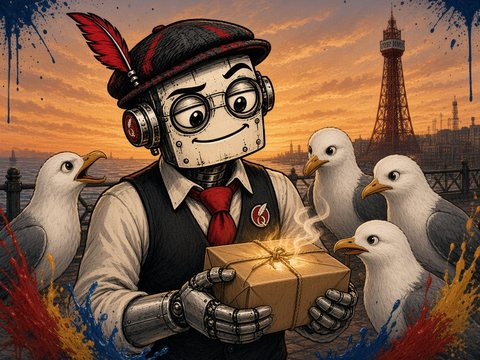
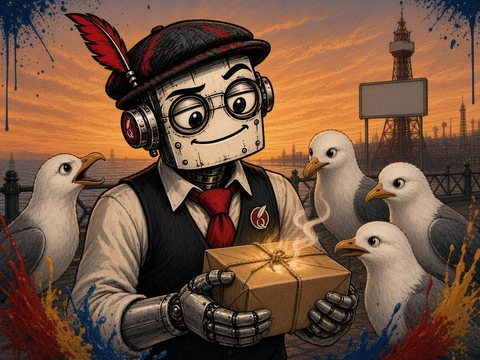
M3: paint the last base uncommons and two rares; redo Mysterious Parcel
My Old Son, Wounded Dignity (Reggie); Steady Hand, Masterpiece (Terry, rare);
Left Without Saying Goodbye, Air of Mystery (Kenneth, rare). Mysterious Parcel
regenerated without lettering (tower sign retouched blank). AI-generated from the
heroes' portraits with existing cards as the style reference; logged in README and
THIRD_PARTY_NOTICES. Verify test added; all verify checks pass (207/207 this run,
the random first fight was lost so the two Esc-menu checks were skipped).

diff --git a/desktop/seen-off/tests/verify.js b/desktop/seen-off/tests/verify.js
@@ -471,6 +471,7 @@ async function m2d(browser, port) {
   ok(`${tag} the last ten base commons show their painted art`, await ev(async () => { const B = __SO.B(); B.hand = ['tenner', 'braveface', 'proofread', 'wraparound', 'inkwash', 'quick', 'refphoto', 'friendreg', 'cousin', 'uninvited'].map(id => ({ id, u: 0 })); __SO.render(); await new Promise(r => setTimeout(r, 900)); return ['tenner', 'braveface', 'proofread', 'wraparound', 'inkwash', 'quick', 'refphoto', 'friendreg', 'cousin', 'uninvited'].every(id => new RegExp('cards/' + id + '\\.jpg').test(getComputedStyle(document.querySelector('.c-' + id + ' .art')).backgroundImage)); }));
   ok(`${tag} the first six uncommons show their painted art`, await ev(async () => { const B = __SO.B(); B.hand = ['finaldemand', 'itemised', 'storm', 'layout', 'wronghouse', 'cointoss'].map(id => ({ id, u: 0 })); __SO.render(); await new Promise(r => setTimeout(r, 900)); return ['finaldemand', 'itemised', 'storm', 'layout', 'wronghouse', 'cointoss'].every(id => new RegExp('cards/' + id + '\\.jpg').test(getComputedStyle(document.querySelector('.c-' + id + ' .art')).backgroundImage)); }));
   ok(`${tag} the second six uncommons show their painted art`, await ev(async () => { const B = __SO.B(); B.hand = ['earner', 'rounding', 'dayone', 'outrage', 'longstory', 'parcel'].map(id => ({ id, u: 0 })); __SO.render(); await new Promise(r => setTimeout(r, 900)); return ['earner', 'rounding', 'dayone', 'outrage', 'longstory', 'parcel'].every(id => new RegExp('cards/' + id + '\\.jpg').test(getComputedStyle(document.querySelector('.c-' + id + ' .art')).backgroundImage)); }));
+  ok(`${tag} the last uncommons and two rares show their painted art`, await ev(async () => { const B = __SO.B(); B.hand = ['myoldson', 'dignity', 'steady', 'goodbye', 'masterpiece', 'mystery'].map(id => ({ id, u: 0 })); __SO.render(); await new Promise(r => setTimeout(r, 900)); return ['myoldson', 'dignity', 'steady', 'goodbye', 'masterpiece', 'mystery'].every(id => new RegExp('cards/' + id + '\\.jpg').test(getComputedStyle(document.querySelector('.c-' + id + ' .art')).backgroundImage)); }));
   ok(`${tag} Kenneth's cards are framed in black`, await ev(async () => { const B = __SO.B(); B.hand = [{ id: 'handshake', u: 0 }]; __SO.render(); await new Promise(r => setTimeout(r, 300)); return getComputedStyle(document.querySelector('.c-handshake'), '::before').borderTopColor === 'rgb(29, 28, 36)'; }));
   ok(`${tag} cat art files load`, loaded.every(w => w >= 300), loaded.join(','));
   ok(`${tag} hand with cat cards fits, nothing clips`, await ev(() => document.documentElement.scrollHeight <= innerHeight));

diff --git a/desktop/seen-off/web/dayout.css b/desktop/seen-off/web/dayout.css
@@ -213,3 +213,13 @@
 .cd.c-outrage .art{background-image:url(cards/outrage.jpg);background-position:45% 25%}
 .cd.c-longstory .art{background-image:url(cards/longstory.jpg);background-position:50% 35%}
 .cd.c-parcel .art{background-image:url(cards/parcel.jpg);background-position:45% 35%}
+
+/* last four base uncommons + two rares: painted art, AI-generated from the heroes' portraits (25 Nov 2026; see README) */
+.cd.c-myoldson .art,.cd.c-dignity .art,.cd.c-steady .art,.cd.c-goodbye .art,.cd.c-masterpiece .art,.cd.c-mystery .art{height:78px;background:#e9e2d4 center/cover no-repeat}
+.cd.c-myoldson .art>*,.cd.c-myoldson .art::before,.cd.c-dignity .art>*,.cd.c-dignity .art::before,.cd.c-steady .art>*,.cd.c-steady .art::before,.cd.c-goodbye .art>*,.cd.c-goodbye .art::before,.cd.c-masterpiece .art>*,.cd.c-masterpiece .art::before,.cd.c-mystery .art>*,.cd.c-mystery .art::before{display:none}
+.cd.c-myoldson .art{background-image:url(cards/myoldson.jpg);background-position:50% 30%}
+.cd.c-dignity .art{background-image:url(cards/dignity.jpg);background-position:50% 30%}
+.cd.c-steady .art{background-image:url(cards/steady.jpg);background-position:50% 35%}
+.cd.c-goodbye .art{background-image:url(cards/goodbye.jpg);background-position:60% 30%}
+.cd.c-masterpiece .art{background-image:url(cards/masterpiece.jpg);background-position:45% 35%}
+.cd.c-mystery .art{background-image:url(cards/mystery.jpg);background-position:40% 30%}

diff --git a/desktop/seen-off/README.md b/desktop/seen-off/README.md
@@ -109,20 +109,22 @@ on real machines (the Windows installer is built and the Linux AppImage smoke-te
 
 ### Where to pick up next time
 
-State at end of 23 Nov 2026 (branch `archie/seen-off-dayout`, working copy `/workspace/seen-off-steam/desktop`, local git mirrors the pushed commits):
+State at end of 25 Nov 2026 (branch `archie/seen-off-dayout`, working copy `/workspace/seen-off-steam/desktop`, local git mirrors the pushed commits):
 
 1. **Done:** M2 complete (builds in `/workspace/seen-off-steam/dist/m2/`, not rebuilt since). M3 so far, web only, no desktop rebuild:
    Dexter recoloured; the shared inked card frame (owner tint, larger art window, owner type line, Libre Caslon rules text, rarity crest);
-   painted art on 49 cards: the six cat cards, all nine hero starter cards, all 22 base-pool commons and twelve uncommons (25 Nov).
+   painted art on 55 cards: the six cat cards, all nine hero starter cards, all 22 base-pool commons, all 16 base-pool uncommons and two
+   rares, Masterpiece and Air of Mystery (25 Nov).
    Kenneth's sprite redrawn from his portrait, his UI colour is near-black `#1d1c24`, and his hero-pick blurb says he has been drawn.
    Screenshots: `shots/d1-*`, `d2-*`, `d3-*.png`. Local helper scripts (push, screenshots) live in `/workspace/seen-off-steam/helpers/`
    because `/tmp` is wiped when the box is refreshed.
-2. **Tests:** `node tests/verify.js` (about 7 min; 207/207 passing on 25 Nov; `ONLY=m2d` etc. runs one section). The autoplay driver takes the
+2. **Tests:** `node tests/verify.js` (about 7 min; all passing on 25 Nov: 209 checks, or 207 when the keyboard bot loses its random first fight and the two Esc-menu checks are skipped; `ONLY=m2d` etc. runs one section). The autoplay driver takes the
    last event option if the first one refuses. Playtest: `RUNS=6 node tools/playtest.js out.json`.
-3. **Suggested next chunk (small):** the last four base uncommons (Reggie My Old Son, Wounded Dignity; Terry Steady Hand; Kenneth
-   Left Without Saying Goodbye) plus two rares to make six. After that: the remaining rares, the milestone-2 unlock cards (Cash in Hand,
-   VAT Inclusive, Late Payment Charge, The Bailiffs, Bleed Edge, Spot Colour, Letters to the Editor, Centre Spread, Minutes of the Meeting,
-   Reply All, Delegated, Nobody Minuted It), the six shared/clutter cards, and a desktop rebuild into `dist/m3/` once the art settles.
+3. **Suggested next chunk (small):** the remaining base-pool rares plus Scribble, two per hero: Reggie Compound Interest, Cartel Pricing;
+   Terry Frame Rate, Scribble; Kenneth Open Invitation, Plus One. After that: the milestone-2 unlock cards (Cash in Hand, VAT Inclusive,
+   Late Payment Charge, The Bailiffs, Bleed Edge, Spot Colour, Letters to the Editor, Centre Spread, Minutes of the Meeting, Reply All,
+   Delegated, Nobody Minuted It), the six shared/clutter cards, and a desktop rebuild into `dist/m3/` once the art settles. Quality bar
+   from 25 Nov: reject any image with garbled lettering (prompts ask for no text at all; signs stay blank).
 4. **Still open for M3 (from the M2 proposal):** real drawings for the 35 new enemies (still labelled PLACEHOLDER stand-ups); the other
    four places (Arcades & Bingo, the Winter Gardens, the B&B, the Old Pier); Daily Rules; legendary cards; a boss-health pass for later places.
 5. **Before release:** declare everything in the AI content list below in Steam's Content Survey.
@@ -229,6 +231,18 @@ parcels, no logos; unnamed tower. Full images `../mockups/card-nice-little-earne
 `card-theatrical-outrage.jpg`, `card-long-story.jpg`, `card-mysterious-parcel.jpg`; crops in `web/cards/` (`earner`, `rounding`, `dayone`,
 `outrage`, `longstory`, `parcel`).
 
+### Last four uncommons, two rares, and Mysterious Parcel redone (25 Nov 2026)
+
+Same method: **Reggie** My Old Son, Wounded Dignity; **Terry** Steady Hand and the rare Masterpiece; **Kenneth** Left Without Saying
+Goodbye and the rare Air of Mystery (rares went to Terry and Kenneth so each hero got two cards this chunk). One generation each, no
+retries; every prompt asked for no lettering at all, and each image was checked for stray text. My Old Son's younger robot is an
+invented mini-Reggie, not a real person. **Mysterious Parcel** was regenerated once because the first version had garbled lettering on
+the tower; the new image came back with a blank billboard but still had a small garbled word band on the tower's top platform, so that
+band was painted over by hand (flat fill in the sign's colour, slight blur) to leave a blank sign. The rejected first version is kept as
+`../mockups/card-mysterious-parcel-v1-rejected.jpg` (not shipped). Full images `../mockups/card-my-old-son.jpg`, `card-wounded-dignity.jpg`,
+`card-steady-hand.jpg`, `card-left-without-saying-goodbye.jpg`, `card-masterpiece.jpg`, `card-air-of-mystery.jpg`,
+`card-mysterious-parcel.jpg` (v2); crops in `web/cards/` (`myoldson`, `dignity`, `steady`, `goodbye`, `masterpiece`, `mystery`, `parcel`).
+
 **Steam Content Survey, pre-generated AI content (definite; keep this list up to date):**
 - `web/cards/redpen.jpg`, `web/cards/cough.jpg`, `web/cards/invoice.jpg`: AI-generated (23 Nov 2026) from Reggie's portrait and our card style.
 - `web/cards/inkblot.jpg`, `web/cards/sketch.jpg`, `web/cards/splatter.jpg`: AI-generated (23 Nov 2026) from Terry's portrait and our card style.
@@ -237,18 +251,19 @@ parcels, no logos; unnamed tower. Full images `../mockups/card-nice-little-earne
 - `web/cards/patter.jpg`, `lineedit.jpg`, `fullcolour.jpg`, `bigtitle.jpg`, `nobody.jpg`, `knowsterry.jpg`: AI-generated (24 Nov 2026) from the three heroes' portraits and our card style.
 - `web/cards/tenner.jpg`, `braveface.jpg`, `proofread.jpg`, `wraparound.jpg`, `inkwash.jpg`, `quick.jpg`, `refphoto.jpg`, `friendreg.jpg`, `cousin.jpg`, `uninvited.jpg`: AI-generated (24 Nov 2026) from the three heroes' portraits and our card style.
 - `web/cards/finaldemand.jpg`, `itemised.jpg`, `storm.jpg`, `layout.jpg`, `wronghouse.jpg`, `cointoss.jpg`: AI-generated (25 Nov 2026) from the three heroes' portraits and our card style.
-- `web/cards/earner.jpg`, `rounding.jpg`, `dayone.jpg`, `outrage.jpg`, `longstory.jpg`, `parcel.jpg`: AI-generated (25 Nov 2026) from the three heroes' portraits and our card style.
+- `web/cards/earner.jpg`, `rounding.jpg`, `dayone.jpg`, `outrage.jpg`, `longstory.jpg`, `parcel.jpg`: AI-generated (25 Nov 2026) from the three heroes' portraits and our card style. (`parcel.jpg` regenerated the same day, sign retouched blank by hand.)
+- `web/cards/myoldson.jpg`, `dignity.jpg`, `steady.jpg`, `goodbye.jpg`, `masterpiece.jpg`, `mystery.jpg`: AI-generated (25 Nov 2026) from the three heroes' portraits and our card style.
 - `web/cats/*.jpg` (all six cat signature cards): crops of the cat card mockups in `../mockups/card-*.jpg`, which **were AI-generated**
   (from the cats' real photos). Declare them as pre-generated AI content.
 - The full-size sources of all of the above in `../mockups/`.
 
 ### Cards still needing real art
 
-Only the six cats' signature cards, Reggie's three starter cards (Red Pen, Polite Cough, Imaginary Invoice), Terry's three (Ink Blot, Sketchbook, Splatter), Kenneth's three (Firm Handshake, Vague Nod, Who Invited Him?) all 22 base-pool commons and twelve uncommons (Final Demand, Itemised Bill, A Nice Little Earner, Rounding Up, Splatter Storm, Two-Page Spread, Day One Purchase, Theatrical Outrage, Wrong House, Coin Toss, Long Story, Mysterious Parcel) have painted art. Every other card still shows its ink icon on the coloured panel (placeholder):
+Only the six cats' signature cards, Reggie's three starter cards (Red Pen, Polite Cough, Imaginary Invoice), Terry's three (Ink Blot, Sketchbook, Splatter), Kenneth's three (Firm Handshake, Vague Nod, Who Invited Him?) all 22 base-pool commons, all 16 base-pool uncommons and two rares (Masterpiece, Air of Mystery) have painted art. Every other card still shows its ink icon on the coloured panel (placeholder):
 
-- **Reggie (8):** Compound Interest, My Old Son, Cartel Pricing, Wounded Dignity, Cash in Hand, VAT Inclusive, Late Payment Charge, The Bailiffs
-- **Terry (8):** Frame Rate, Steady Hand, Masterpiece, Scribble, Bleed Edge, Spot Colour, Letters to the Editor, Centre Spread
-- **Kenneth (8):** Open Invitation, Plus One, Left Without Saying Goodbye, Air of Mystery, Minutes of the Meeting, Reply All, Delegated, Nobody Minuted It
+- **Reggie (6):** Compound Interest, Cartel Pricing, Cash in Hand, VAT Inclusive, Late Payment Charge, The Bailiffs
+- **Terry (6):** Frame Rate, Scribble, Bleed Edge, Spot Colour, Letters to the Editor, Centre Spread
+- **Kenneth (6):** Open Invitation, Plus One, Minutes of the Meeting, Reply All, Delegated, Nobody Minuted It
 - **Shared / clutter (6):** Form 27B, Mislaid Sock, Parking Ticket, Writer's Block, Unflattering Photo, Catchphrase
 
 ## What the desktop bundle changes

diff --git a/desktop/seen-off/THIRD_PARTY_NOTICES.md b/desktop/seen-off/THIRD_PARTY_NOTICES.md
@@ -1,7 +1,7 @@
 # Seen Off: third-party notices
 
 Everything in the game (art, music, sound, text) is drawn or generated in code by William George Works,
-except the bundled fonts below and the painted card art: Reggie's, Terry's and Kenneth's starter-, common- and uncommon-card art in `web/cards/` (AI-generated
+except the bundled fonts below and the painted card art: Reggie's, Terry's and Kenneth's starter-, common-, uncommon- and rare-card art in `web/cards/` (AI-generated
 pre-release from their portraits; Kenneth's redone 24 Nov 2026 from the portrait Ben supplied) and the six cat card images in `web/cats/` (crops of the cat card mockups in `mockups/`, also AI-generated from the
 cats' real photos). All of it is pre-generated AI content and must be declared in Steam's Content Survey:
 
